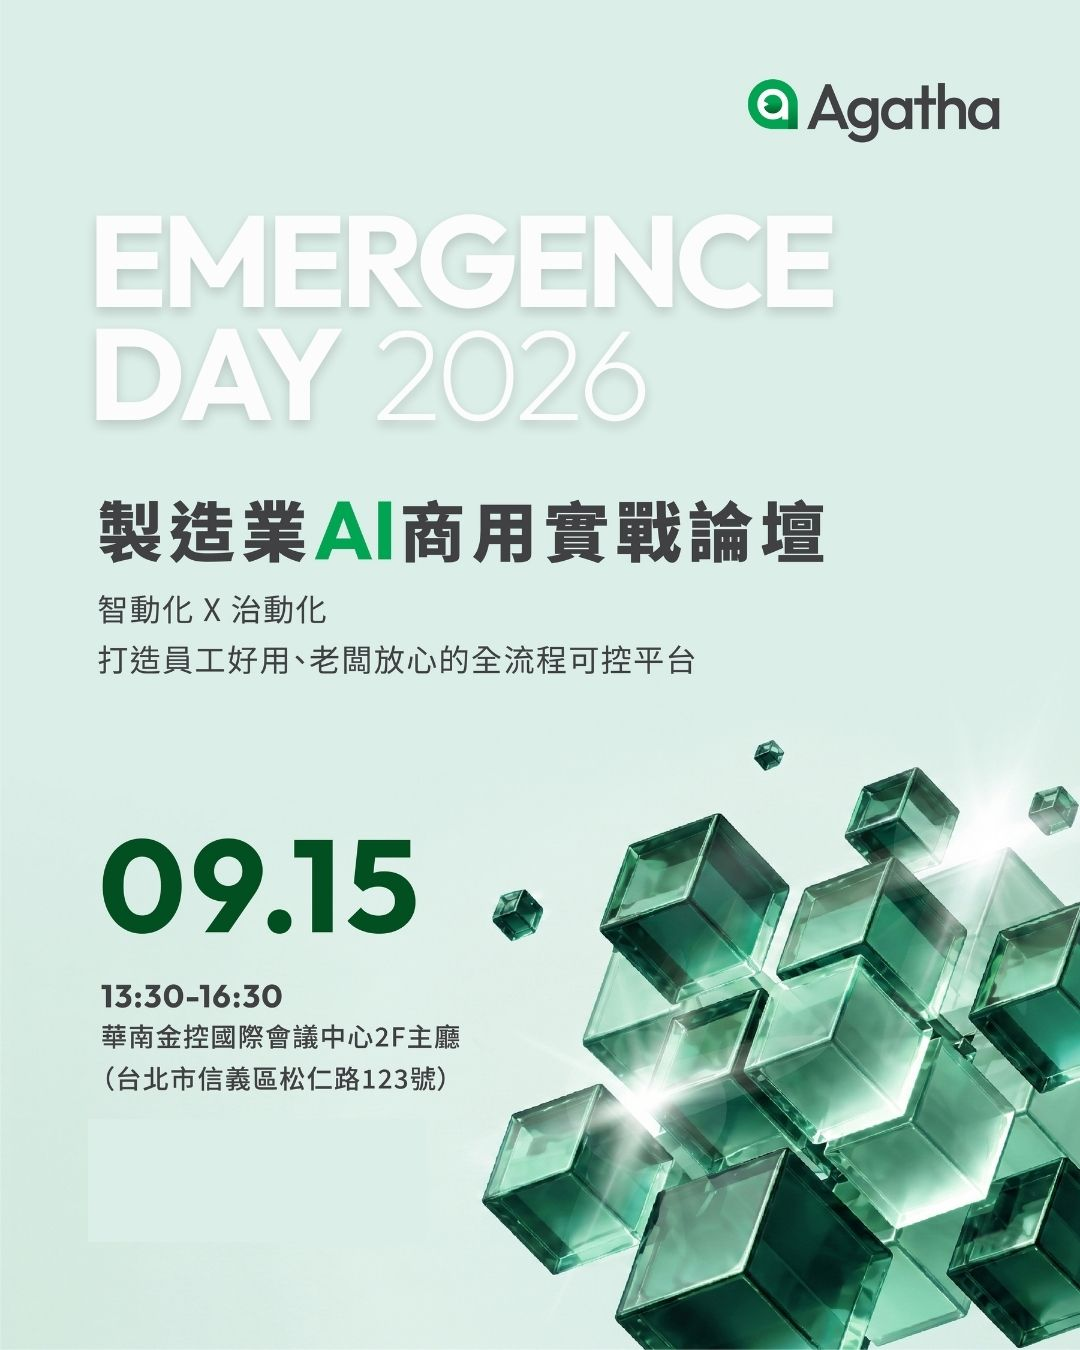
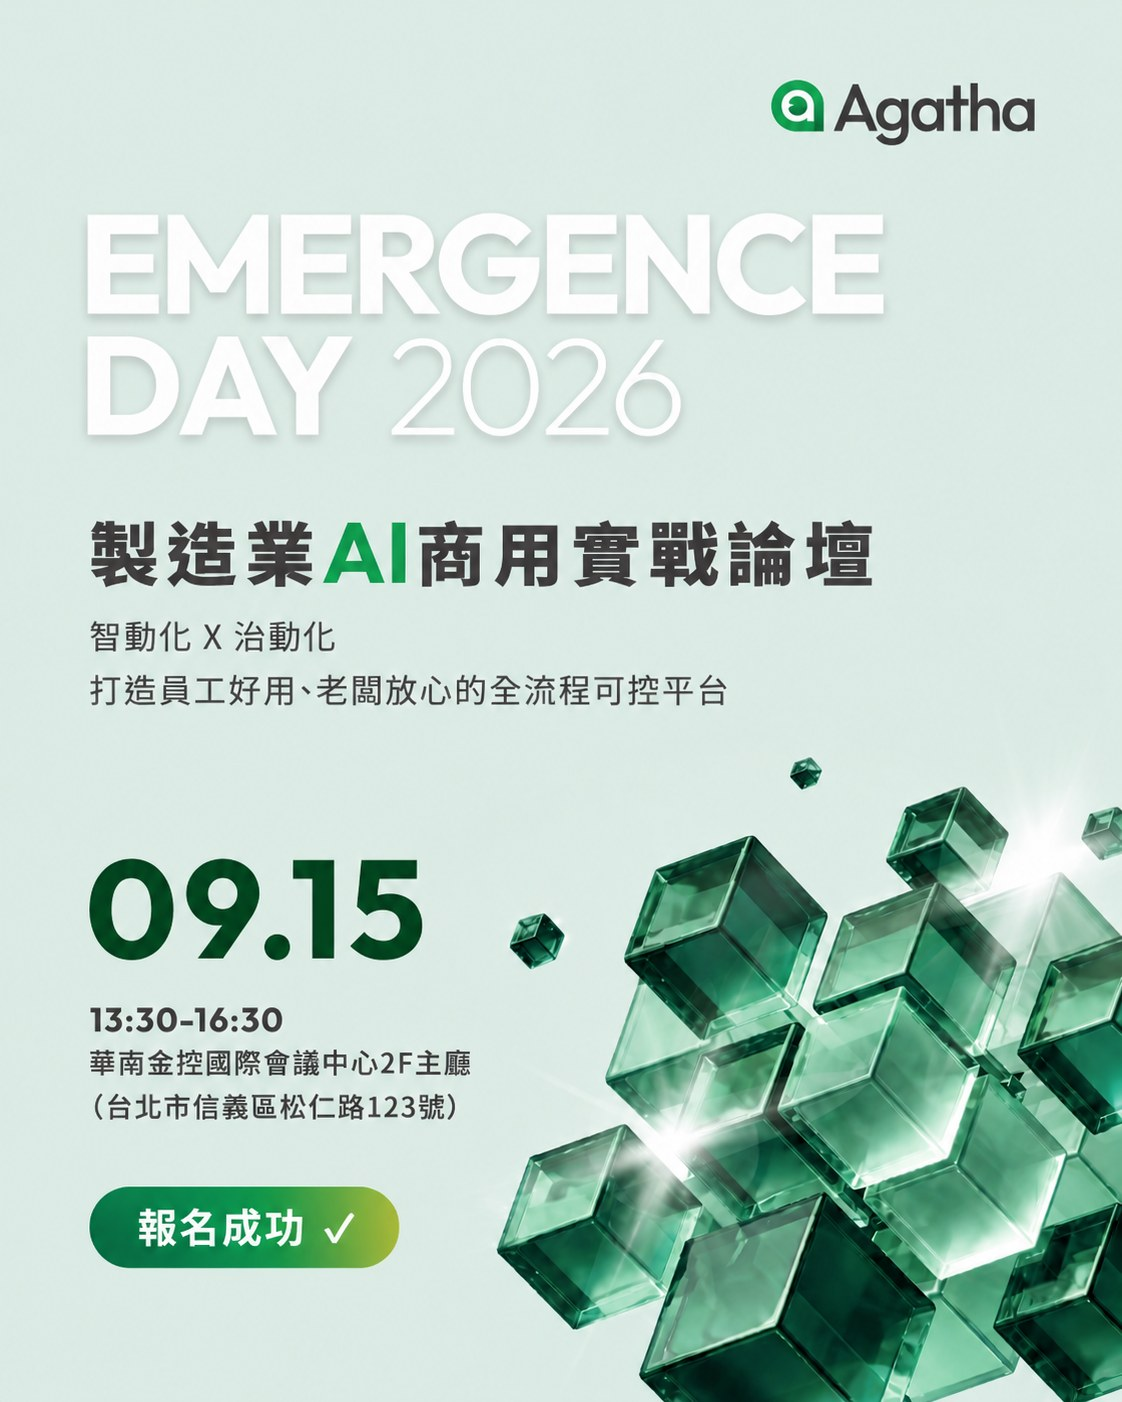
feat: confirmation email hero image now includes the success badge
Swap in the email-only banner variant Lindy provided, which now has
the "報名成功" badge baked into the graphic itself. Remove the
separately-coded badge table that used to sit below the image -
keeping both would duplicate it. This is a distinct asset from the
landing page's own banner (do not point either at the other's file).

Source PNG (1.4MB) recompressed to JPEG via sharp for a reasonable
email payload (~184KB, negligible visual loss).

diff --git a/lib/integrations/email-templates/registration-confirmation.html b/lib/integrations/email-templates/registration-confirmation.html
@@ -59,37 +59,17 @@
 
           <!-- ===== HERO (light) ===== -->
           <!-- 2026/08/10: replaced the coded eyebrow/title/date/chips markup
-               with the actual banner graphic (same file already used as the
-               landing page's hero-banner image) - it already has all that
-               text baked in, so keeping the coded version too would just
-               duplicate it, same issue as the landing page hero/banner
-               overlap fixed the same day. -->
+               with the actual banner graphic (email-only asset, distinct
+               from the landing page's own hero-banner image - do not point
+               this at /admin/banner's uploads). This later version of the
+               graphic (2026/08/10, same day) has the "報名成功" success badge
+               baked into the image itself, so the separately-coded badge
+               table that used to sit below the image was removed - keeping
+               both would have duplicated it, same class of issue as the
+               landing page hero/banner overlap fixed earlier the same day. -->
           <tr>
             <td style="border-radius:22px 22px 0 0; overflow:hidden; background-color:#EAF1EC; border:1px solid rgba(20,60,40,.10); border-bottom:none;">
-              <img src="{{ASSET_BASE_URL}}/email-assets/hero-banner.jpg" width="600" alt="Agatha Forum 2026 · 製造業 AI 商用實戰論壇 · 09.15 13:30-16:30" style="display:block; width:100%; max-width:600px; height:auto;">
-              <table role="presentation" width="100%" cellpadding="0" cellspacing="0">
-                <tr>
-                  <td align="center" style="padding:26px 0 32px;">
-                    <!-- success badge. Uses U+2713 (plain text-style check
-                         mark), not U+2714 (the "heavy" check mark this
-                         started as) - U+2714 defaults to emoji-style
-                         rendering in several mail clients, which showed up
-                         full-size on its own line above the "報名成功" text
-                         instead of sitting inline with it (reported
-                         2026/08/10). line-height + white-space:nowrap pin it
-                         to one line regardless of glyph metrics. -->
-                    <table role="presentation" cellpadding="0" cellspacing="0">
-                      <tr>
-                        <td style="border-radius:999px; background:#0CC26E; background-image:linear-gradient(135deg,#0CC26E,#09A25B); box-shadow:0 10px 26px rgba(9,162,91,.35);">
-                          <span class="cjk" style="display:inline-block; padding:14px 30px; font-family:'Noto Sans TC',sans-serif; font-weight:700; font-size:16px; line-height:16px; color:#ffffff; white-space:nowrap;">
-                            &#10003;&nbsp;&nbsp;報名成功
-                          </span>
-                        </td>
-                      </tr>
-                    </table>
-                  </td>
-                </tr>
-              </table>
+              <img src="{{ASSET_BASE_URL}}/email-assets/hero-banner.jpg" width="600" alt="Emergence Day 2026 · 製造業 AI 商用實戰論壇 · 09.15 13:30-16:30 · 報名成功" style="display:block; width:100%; max-width:600px; height:auto;">
             </td>
           </tr>
 

diff --git a/devlog.md b/devlog.md
@@ -765,3 +765,25 @@
 **驗證方式：** 渲染代入姓名／資源網址後檢查正文段落文字正確、`<strong>` 的 `font-weight` 確認是 `700`；`npm run build` 通過；暫存渲染檔驗證完清除。
 
 **同步更新：** 沒有異動 README（純文案調整，且尚有 3 處待你確認是否比照修改，等你回覆後再一併記錄）。
+
+## Phase 45 — 確認信 Hero 換成 email 專用新版設計稿（「報名成功」已內建於圖片）＋刪除重複徽章（2026-08-10）
+
+**起因：** 你又貼了一張同款設計稿，這次「報名成功 ✓」已經直接畫進圖片左下角的綠色藥丸裡（Phase 43 那版圖片這個位置是空白的），要求換上這張圖，並把程式碼另外畫的「報名成功」徽章區塊刪掉——圖片裡已經有了，程式碼再畫一次會重複。你也特別澄清這次只改確認信，不要動到落地頁的 banner。
+
+**這次找不到現成的正式站檔案可以直接抓：** 前兩次（Phase 43／換 banner 那次）都能直接從正式站 `/uploads/banner/...` 抓到一模一樣的檔案，這次比對了一下，正式站落地頁的 banner 圖仍然是「沒有報名成功徽章」的舊版——這張新圖是**只給確認信用的**，還沒（也不會）上傳到落地頁的 `/admin/banner`。一開始請你改用附加檔案的方式傳圖，因為聊天室裡直接貼的截圖，我這邊沒有辦法還原成像素完全一致的原始檔。
+
+**後來怎麼拿到檔案的：** 你直接又貼了一次同一張圖，這次翻了一下 `C:\Users\ACER\Downloads\` 目錄，找到一個十分鐘內剛存進去的 `報名成功.png`（1122×1402），內容跟聊天室貼的圖逐像素比對一致——判斷是你（或 Lindy）稍早已經把這張圖存到 Downloads 資料夾，只是訊息裡沒有用 `@` 附加檔案語法引用它。直接採用這個檔案，不需要再麻煩你重新附加一次。
+
+**做了什麼：**
+- 原始檔是 1.4MB 的 PNG（無壓縮），跟前一版一樣用 `sharp` 轉成 JPEG（品質 88）壓到約 184KB，視覺上幾乎看不出差異，避免email圖片過大拖慢收件端載入。存成 `public/email-assets/hero-banner.jpg`（沿用同一個檔名，直接覆蓋前一版）。
+- `lib/integrations/email-templates/registration-confirmation.html` 裡，Hero `<img>` 下面原本還有一段 `<table>` 畫「報名成功」綠色藥丸徽章（Phase 43 做的，見上面的 `&#10003;` 勾勾修復），整段連同外層的置中 `<td>` 一起刪除，Hero 區塊現在就是單純一個 `<img>`，沒有其他內容——圖片下面直接接「白色內容卡片」那個 `<tr>`，靠白卡片自己的 `padding` 提供跟文字內容之間的間距，不需要另外補間距。
+- 順手把 `<img>` 的 `alt` 文字更新成描述新畫面內容（加上「報名成功」四個字，活動名稱也順便從 `Agatha Forum 2026` 改成 `Emergence Day 2026`，跟上一個 Phase 改的正文文案一致——這是這次改動範圍內順手做的，不算是主動去處理 Phase 44 提到、還在等你回覆的另外 2 處）。
+- 程式碼註解特別強調這張圖是「email 專用」，跟落地頁 `/admin/banner` 上傳的圖是不同檔案，避免以後有人搞混誤把這張圖傳去換落地頁 banner，或反過來拿落地頁 banner 蓋掉這張。
+
+**驗證方式：**
+1. 渲染代入姓名／資源網址後的完整 HTML，確認「報名成功」字樣只剩 3 處（`<title>` 標籤、程式碼註解、新的 `alt` 文字），沒有殘留的徽章 `<span>` 元素；另外確認畫面上僅存的一個 `background:#0CC26E` 綠色系樣式是「開啟 Google 地圖」按鈕（本來就有、不相關），不是重複的徽章。
+2. 用瀏覽器打開渲染結果，用 JS 檢查圖片 `naturalWidth/Height` 為 1122×1402（確認新圖真的載入成功，不是舊圖或壞圖)，畫面上抓不到任何一個包含「報名成功」文字的 `<span>` 元素（`duplicateBadgeCount: 0`）。
+3. `npm run build`——**第一次執行時噴了一個看似不相關的錯誤**（`/api/admin/export` 找不到對應模組），這是本機 `.next` build cache 又卡到的老問題（今天稍早 Phase 37 就踩過一次同類狀況），`rm -rf .next` 重新建置後就正常過了，不是這次改動真的弄壞了那支路由。
+4. 驗證用的暫存渲染檔、未壓縮的原始 PNG 都已清除，只留下最終壓縮過的 `hero-banner.jpg` 進版控。
+
+**同步更新：** README「確認信版型：HTML 版」小節裡，Phase 43 那則「Hero 圖片改用真實 banner 設計稿」的說明改寫成反映目前這個最終狀態（email 專用版本、徽章已內建），原本「報名成功勾勾跑版已修復」那則改成加註「已由上一項取代」而非刪除（保留脈絡，說明這個問題是怎麼消失的），專案進度追蹤表對應那一列也一併改寫成目前狀態的描述。
